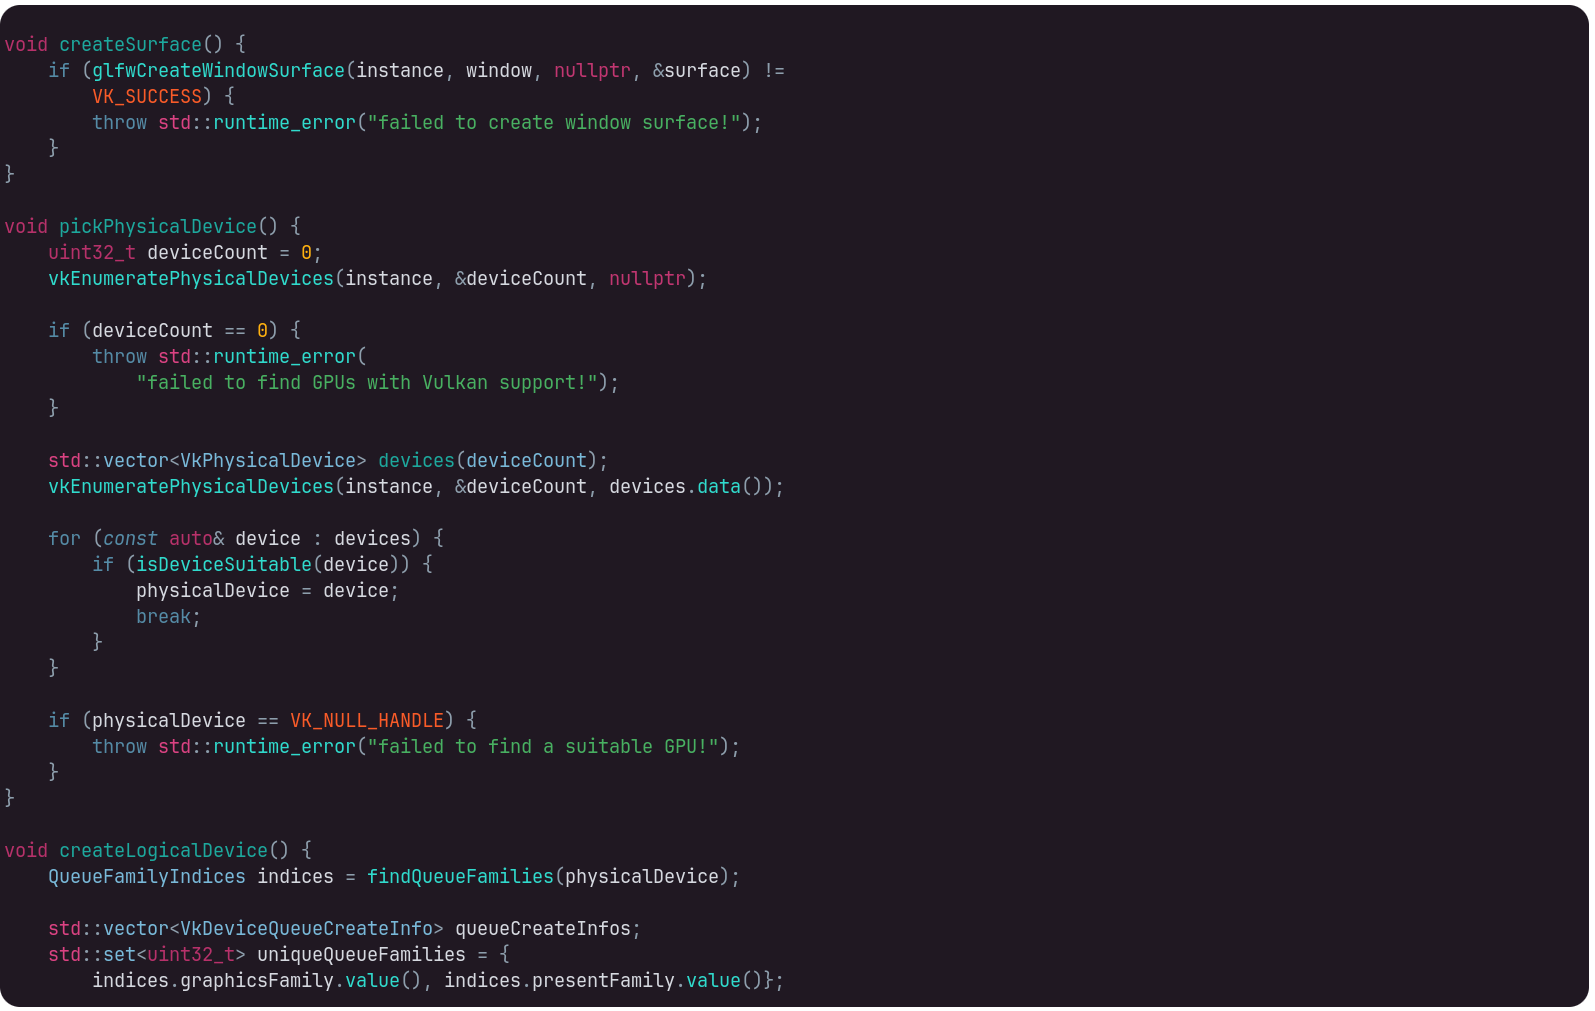
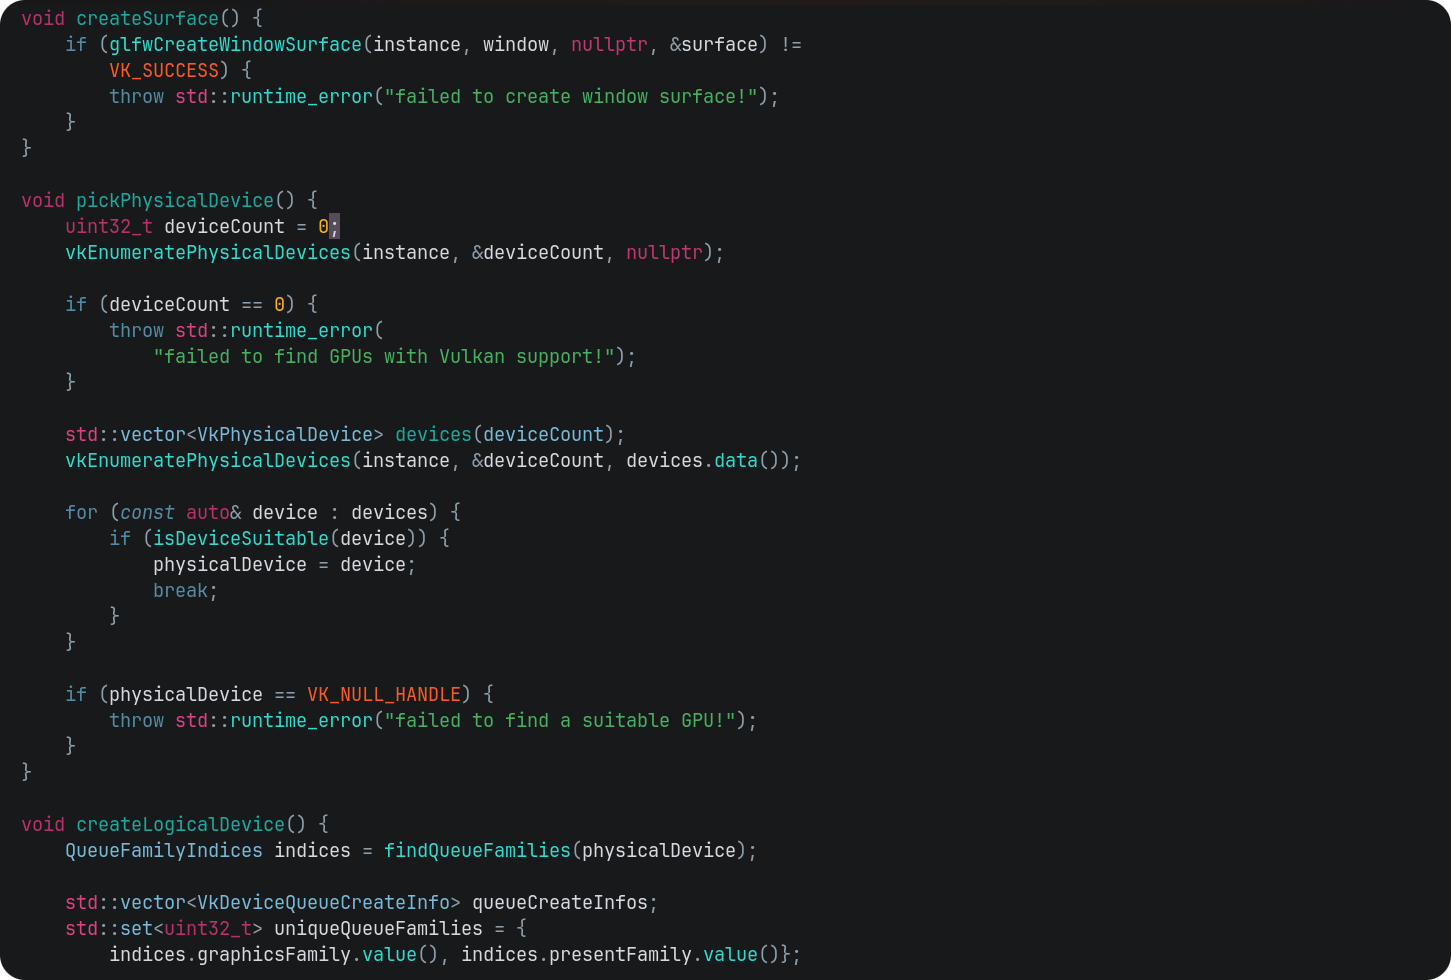
add light theme asset

diff --git a/README.md b/README.md
@@ -9,7 +9,11 @@
 
 ### Main
 
-![smth](./assets/main.png)
+![main](./assets/main.png)
+
+### Light
+
+![light](./assets/light.png)
 
 ## Install
 
